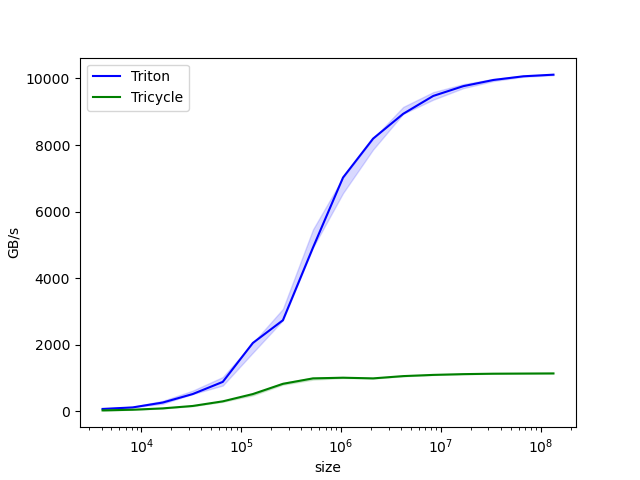
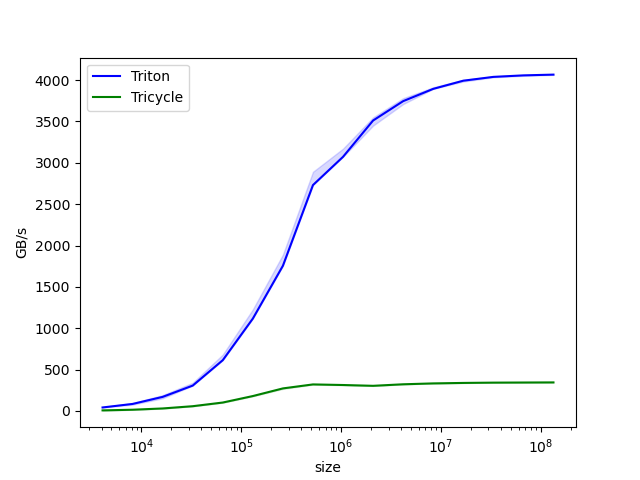
Added triton gelu kernels

diff --git a/src/tricycle/activation.py b/src/tricycle/activation.py
@@ -449,19 +449,39 @@ class TritonGeLU(Layer):
         n_blocks = triton.cdiv(self.n_elements, meta["BLOCK_SIZE"])
         return (n_blocks,)
 
+    def backward(self, grad: Tensor):
+        import cupy as cp
+
+        self.n_elements = grad.array.size
+        is_batched = grad.is_batched
+
+        input_grad = cp.empty_like(grad.array)
+        input_grad = ArrayWrapper(input_grad)
+
+        grad = ArrayWrapper(grad.array)
+
+        kernel_gelu_bwd[self.grid](
+            out_grad=grad,
+            input_grad=input_grad,
+            input_=self._input,
+            n_elements=self.n_elements,
+            BLOCK_SIZE=self.block_size,
+        )
+
+        return Tensor(input_grad.arr, is_batched=is_batched)
+
     def forward(self, tensor: Tensor):
         import cupy as cp
 
         if self.output is None:
             self.output = cp.empty_like(tensor.array)
             self.output = ArrayWrapper(self.output)
+        self._input = ArrayWrapper(tensor.array)
 
-        self.n_elements = tensor.array.size
+        self.n_elements = self._input.arr.size
 
-        tensor.data_ptr = lambda: tensor.array.data.ptr
-
-        kernel_gelu[self.grid](
-            in_ptr=tensor,
+        kernel_gelu_fwd[self.grid](
+            in_ptr=self._input,
             out_ptr=self.output,
             n_elements=self.n_elements,
             BLOCK_SIZE=self.block_size,
@@ -473,7 +493,7 @@ class TritonGeLU(Layer):
 
 
 @triton.jit
-def kernel_gelu(
+def kernel_gelu_fwd(
     in_ptr,
     out_ptr,
     n_elements: int,
@@ -497,3 +517,42 @@ def kernel_gelu(
     out = 0.5 * x * (1.0 + tanh)
 
     tl.store(out_ptr + offsets, out, mask=mask)
+
+
+@triton.jit
+def kernel_gelu_bwd(
+    out_grad,
+    input_grad,
+    input_,
+    n_elements: int,
+    BLOCK_SIZE: tl.constexpr,
+):
+    pid = tl.program_id(axis=0)
+
+    block_start = BLOCK_SIZE * pid
+    offsets = block_start + tl.arange(0, BLOCK_SIZE)
+    mask = offsets < n_elements
+
+    x = tl.load(input_ + offsets, mask=mask)
+
+    sqrt_2_by_pi = 0.7978845608028654
+    const = 0.044715
+
+    cube = const * x * x * x
+
+    # there is no tanh or sech in triton so we'll manually implement them
+    tanh_arg = sqrt_2_by_pi * (x + cube)
+    exp_2 = tl.exp(2 * tanh_arg)
+    tanh = (exp_2 - 1) / (exp_2 + 1)
+    cosh = (tl.exp(tanh_arg) + tl.exp(-tanh_arg)) * 0.5
+    sech = 1.0 / (cosh * cosh)
+
+    first_term = 0.5 * (1 + tanh)
+    coef = x * 0.5 * sech * sqrt_2_by_pi
+    second_term = 1 + 3 * const * x * x
+
+    grad = tl.load(out_grad + offsets, mask=mask)
+
+    out = (first_term + coef * second_term) * grad
+
+    tl.store(input_grad + offsets, out, mask=mask)

diff --git a/test.py b/test.py
@@ -32,15 +32,21 @@ from tricycle.tensor import Tensor
 def benchmark(size, provider):
     x = np.random.random(size).astype(np.float32)
     x = Tensor(x).to_gpu()
+    y = np.random.random(size).astype(np.float32)
+    y = Tensor(y).to_gpu()
     quantiles = [0.5, 0.2, 0.8]
     if provider == "tricycle":
         layer = GeLU()
-        layer(x)
+
     if provider == "triton":
         layer = TritonGeLU()
+
+    def fn():
         layer(x)
+        layer.backward(y)
+
     ms, min_ms, max_ms = triton.testing.do_bench(
-        lambda: layer(x), quantiles=quantiles
+        lambda: fn(), quantiles=quantiles
     )
     gbps = lambda ms: 3 * x.array.size * 32 * 1e-9 / (ms * 1e-3)
     return gbps(ms), gbps(max_ms), gbps(min_ms)
